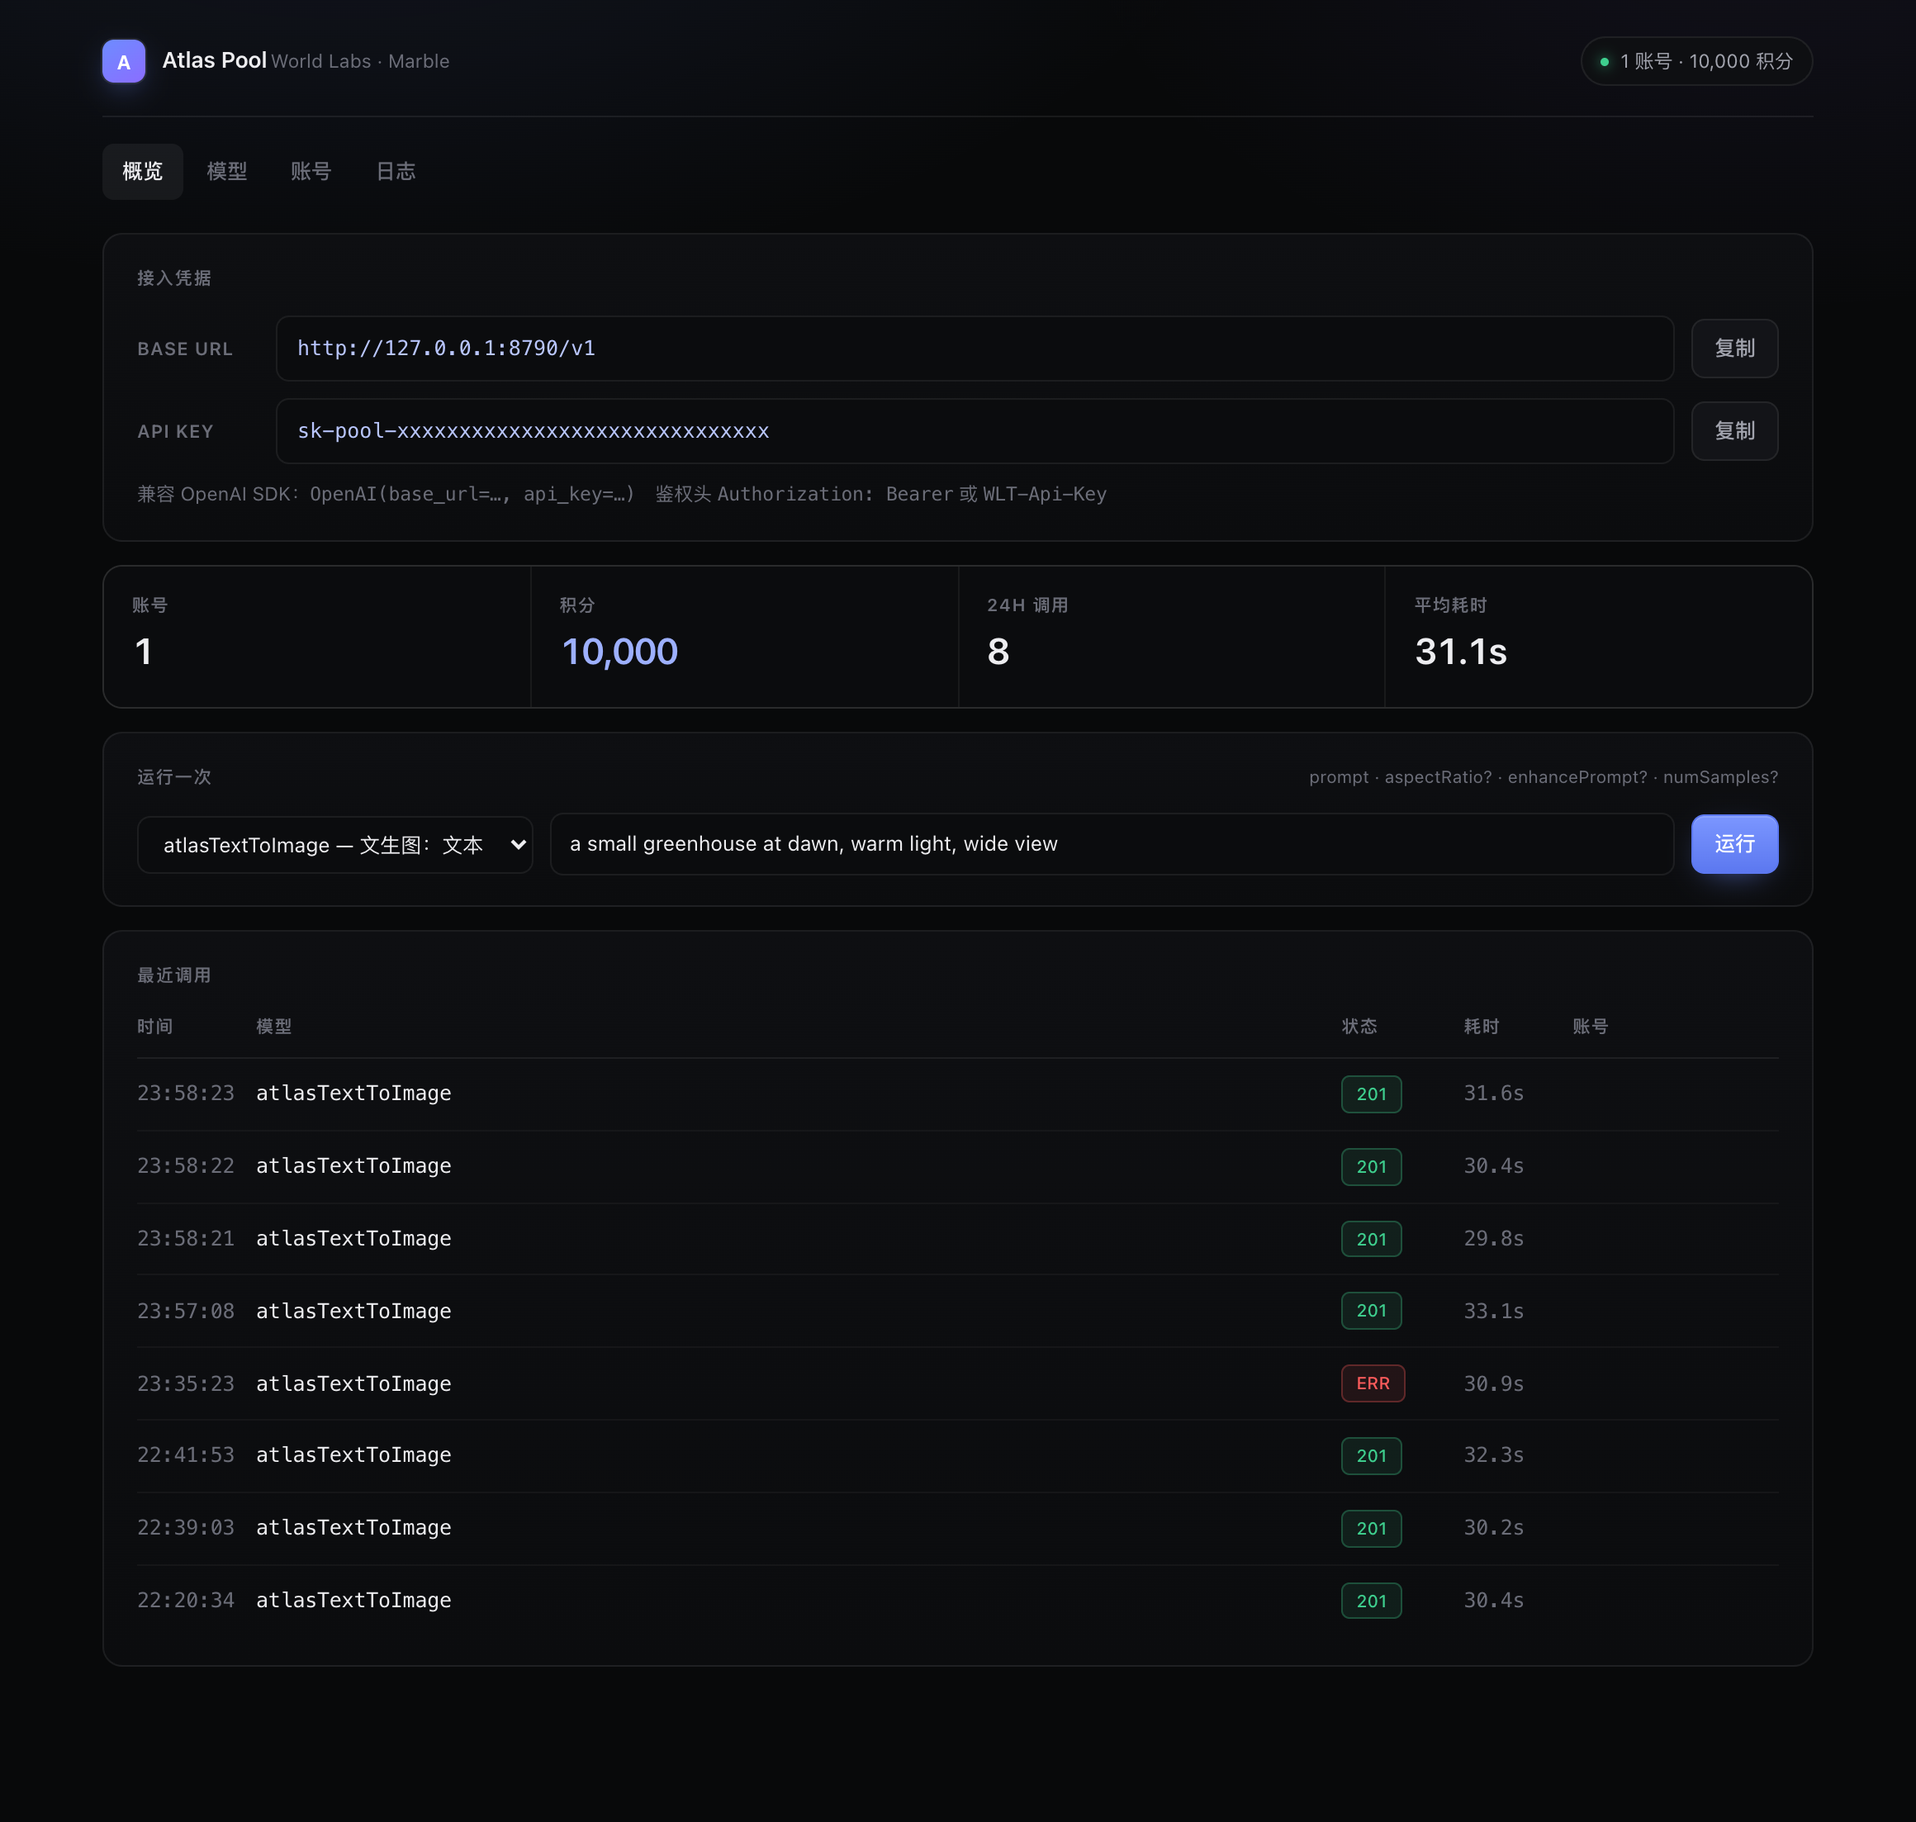
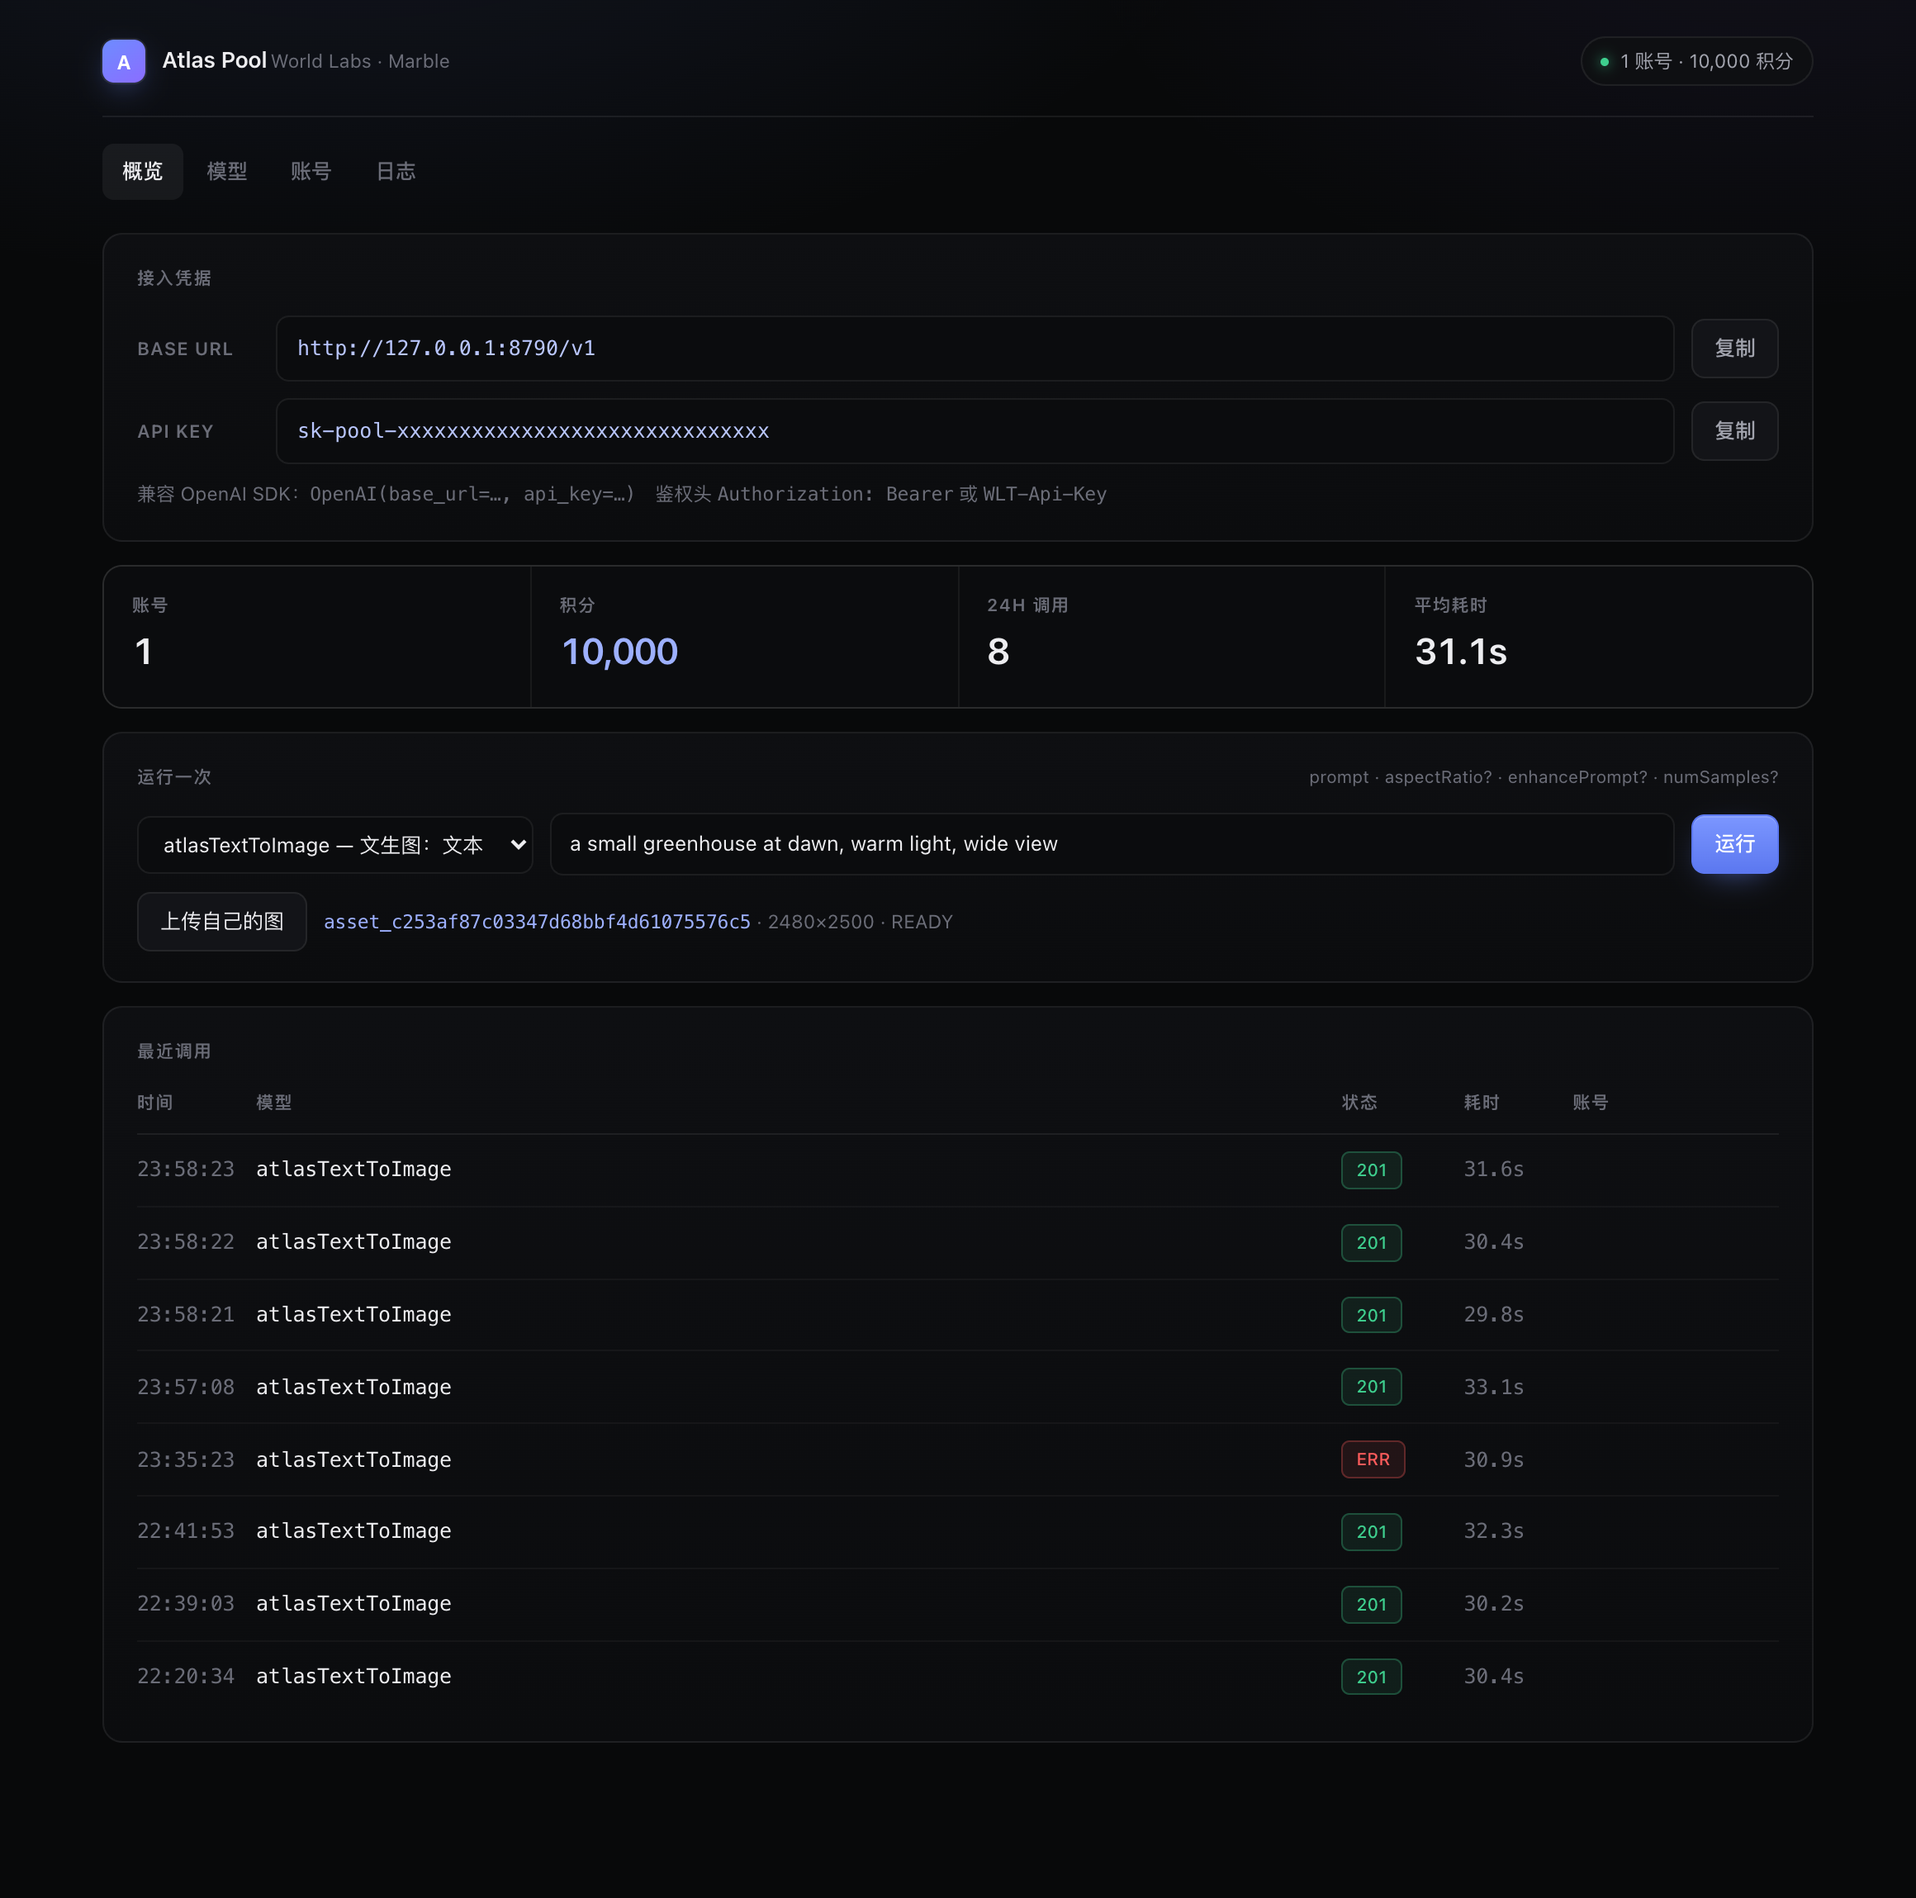
feat(ui): 网关面板加上传入口（选图 → assetId）

diff --git a/web/gateway.html b/web/gateway.html
@@ -88,6 +88,9 @@ select:focus,input:focus{border-color:rgba(109,140,255,.55);box-shadow:0 0 0 3px
 /* ---------- run ---------- */
 .run{display:grid;grid-template-columns:minmax(180px,240px) 1fr auto;gap:10px;align-items:center}
 .hint{font-size:11.5px;color:var(--fg-3);margin-top:9px}
+.uploadbtn{display:inline-flex;align-items:center;gap:7px;border:1px solid var(--line);border-radius:var(--r-sm);
+  padding:7px 13px;font-size:12.5px;background:var(--surface-2);cursor:pointer;transition:.15s}
+.uploadbtn:hover{border-color:var(--line-2);background:#1a1c21}
 .out{margin-top:16px;display:none}
 .out.show{display:block}
 .shots{display:grid;grid-template-columns:repeat(auto-fill,minmax(200px,1fr));gap:10px;margin-bottom:12px}
@@ -202,6 +205,12 @@ tr.hover:hover td{background:rgba(255,255,255,.012)}
         <select id="model"></select>
         <input id="prompt" value="a small greenhouse at dawn, warm light, wide view"/>
         <button class="primary" id="runBtn" onclick="runTask()">运行</button>
+      </div>
+      <div style="margin-top:10px;display:flex;align-items:center;gap:10px;flex-wrap:wrap">
+        <label class="uploadbtn">上传自己的图
+          <input type="file" id="fileInput" accept="image/*" onchange="uploadAsset()" hidden/>
+        </label>
+        <span class="muted" id="assetInfo" style="font-size:11.5px">支持 png / jpg，返回 assetId 可用于 3D 重建</span>
       </div>
       <div class="out" id="out">
         <div class="shots" id="shots"></div>
@@ -400,6 +409,23 @@ async function runTask(){
   }catch(e){
     $('out').classList.add('show'); $('raw').textContent='请求失败：'+e;
   }finally{ btn.disabled=false; btn.textContent='运行'; load(); }
+}
+
+async function uploadAsset(){
+  const f=$('fileInput').files[0]; if(!f) return;
+  if(!SK) return toast('先到「账号」页签发密钥');
+  const fd=new FormData(); fd.append('file', f);
+  $('assetInfo').textContent='上传中…';
+  try{
+    const r=await fetch('/v1/assets',{method:'POST',headers:{'Authorization':'Bearer '+SK},body:fd});
+    const d=await r.json();
+    if(d.assetId){
+      $('assetInfo').innerHTML=`<span class="mono" style="color:#9db0ff">${d.assetId}</span>
+        <span class="muted"> · ${d.width}×${d.height} · ${d.state}</span>`;
+      toast('上传完成');
+    } else { $('assetInfo').textContent = (d.error&&d.error.message)||'上传失败'; }
+  }catch(e){ $('assetInfo').textContent='上传失败：'+e; }
+  $('fileInput').value='';
 }
 
 async function newKey(){
